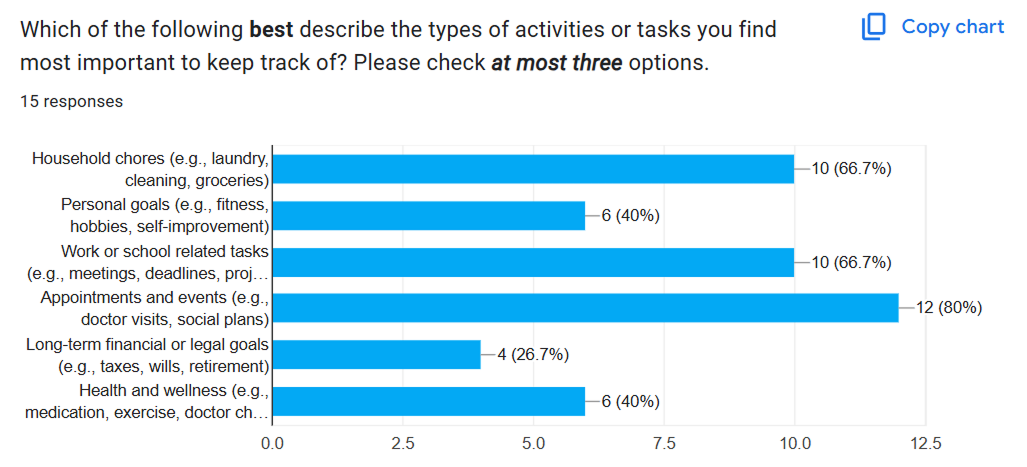
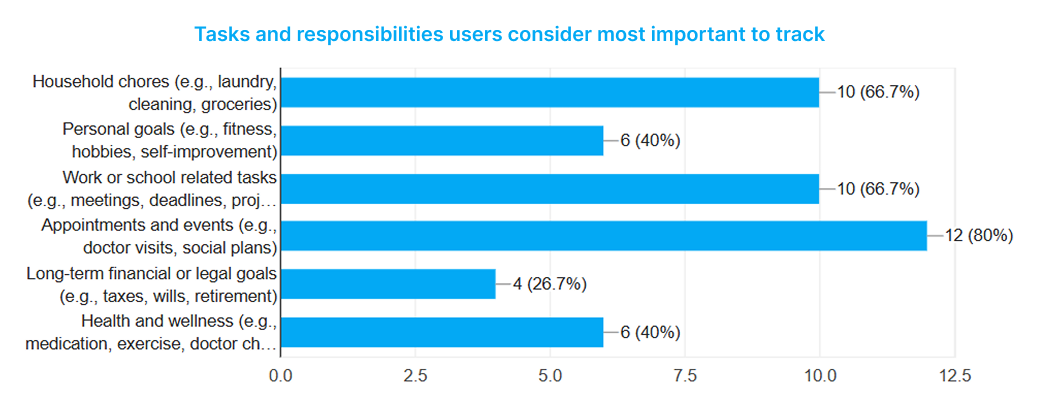
Put together intro and started work on research section

diff --git a/src/app/lifeManagementApp/LifeManagementAppContainer.js b/src/app/lifeManagementApp/LifeManagementAppContainer.js
@@ -1,6 +1,6 @@
 "use client"; 
 import React, {  } from 'react';
-import { Box, Grid, Paper, Typography } from '@mui/material';
+import { Box, Grid, Paper, Typography, List, ListItem } from '@mui/material';
 import * as globalStyles from '../styles/globalStyleConsts';
 import Header from '../Header';
 import ToDoListImage from '../../../public/Next_Up_Project.png';
@@ -15,7 +15,14 @@ const LifeManagementAppContainer = () => {
   return (
     <div>
       <Header/>
-      <Box sx={{ p: 5 }}>
+      <Box
+        sx={{
+          maxWidth: '80%',
+          margin: '0 auto',
+          padding: 5,
+          mt: 5
+        }}
+      >
         <Box
             container
             sx={{
@@ -25,7 +32,7 @@ const LifeManagementAppContainer = () => {
             }}
           >
           <Grid container justifyContent="center" justifyItems="center">
-              <Grid item xs={4} sx={{ marginRight: 8 }}>
+              <Grid item xs={4} sx={{ marginRight: 8, mt: 10 }}>
                 <Box sx={globalStyles.graphic}>
                   <Image
                       src={ToDoListImage}
@@ -35,53 +42,250 @@ const LifeManagementAppContainer = () => {
                 </Box>
               </Grid>
               <Grid item xs={6} sx={{ marginTop: 6}}>
-                  <Typography variant='h1' sx={globalStyles.heading1}>Problem</Typography>
+                  <Typography variant='h1' sx={globalStyles.heading1}>A life full of lists, but no roadmap</Typography>
                   <Typography variant='h2' sx={globalStyles.heading2}>
-                    A Life Management Application
+                    Project Overview
                   </Typography>
                   <Typography variant='body1' sx={globalStyles.paragraph}>
-                      <b>Problem to Solve:</b> {" "}
-                      As adults, we have ever-growing to-do lists comprised of tasks spanning from "do the laundry” to “schedule dentist appointment” to “write a will.” Our goals are split across various lists, notebooks, calendars, and apps.
-                      <br/><br/>
-                      My goal is to understand how people feel about the way they manage their goals and productivity. My mission if to design a way to make it easier to stay organized, manage deadlines, and track goals and milestones.
-                      <br/><br/>
-                      <b>More to come!</b>
+                      As adults, our responsibilities span a wide spectrum from everyday tasks like “do the laundry” to long-term priorities like “write a will.” Our to-dos, goals, and milestones are often fragmented across notebooks, sticky notes, apps, and calendar events. 
+                      <br/><br/>I wanted to create something more unified: a tool not just for daily productivity, but for managing life as a whole. My initial mission was to design a life management app that makes it easier to stay organized, manage deadlines, and track progress toward personal goals and milestones.
+                      <br/><br/>But through user research, a clearer theme began to emerge: many people, especially those with ADHD, anxiety, or executive dysfunction, struggled not because they lacked goals, but because they lacked systems that supported memory, focus, and follow-through. That insight shifted the direction of the project. What emerged was a flexible system that motivates daily productivity, memory support, and long-term goal tracking and record-keeping.
                   </Typography>
               </Grid>
           </Grid> 
         </Box>
-        <Box>
+        <Box
+          sx={{
+            margin: '0 auto',
+            textAlign: 'left',
+            mt: 10,
+          }}
+        >
           <Typography sx={globalStyles.heading1}>
-            Research
+            The Disconnect: Why Existing Tools<br/> are Falling Short
           </Typography>
-          <Box sx={globalStyles.graphic}>
+          <Typography variant="h2" sx={{ ...globalStyles.heading2, mt: 2 }}>
+            Research & Revelations
+          </Typography>
+          <Typography variant="h3" sx={{ ...globalStyles.heading3 }}>Research Methods</Typography>
+          <Typography variant="h3" sx={{ ...globalStyles.heading4, color: "blue" }}>1) Survey (Google Forms, 15 respondents):</Typography>
+          <Typography sx={{ ...globalStyles.paragraph }}><b>Purpose:</b> Included multiple-choice and open-ended questions to capture both quantitative trends and personal context around task management, tools used, frustrations, and motivation challenges. Specifically the questions I asked were focused on answering the following questions:</Typography>
+          <List sx={{ listStyleType: 'disc', marginLeft: 10 }}>
+              <ListItem sx={{ display: 'list-item' }}>
+                <Typography sx={{ ...globalStyles.paragraph, mt: 0, mb: 0 }}>
+                    How do people currently organize their daily to-do lists, long-term goals, and personal achievements or milestones?
+                </Typography>
+              </ListItem>
+              <ListItem sx={{ display: 'list-item' }}>
+                <Typography sx={{ ...globalStyles.paragraph, mt: 0, mb: 0 }}>
+                    Which types of tasks, activities, or responsibilities do people consider most important to track?
+                </Typography>
+              </ListItem>
+              <ListItem sx={{ display: 'list-item' }}>
+                <Typography sx={{ ...globalStyles.paragraph, mt: 0, mb: 0 }}>
+                    What tools or apps are people currently using to manage their tasks and goals, and what do they like about them?
+                </Typography>
+              </ListItem>
+              <ListItem sx={{ display: 'list-item' }}>
+                <Typography sx={{ ...globalStyles.paragraph, mt: 0, mb: 0 }}>
+                    What frustrations or limitations do users experience with existing productivity tools?
+                </Typography>
+              </ListItem>
+              <ListItem sx={{ display: 'list-item' }}>
+                <Typography sx={{ ...globalStyles.paragraph, mt: 0, mb: 0 }}>
+                    What factors most commonly derail users from staying productive or keeping up with their to-do lists?
+                </Typography>
+              </ListItem>
+          </List>
+          <Box sx={{ ...globalStyles.graphic, my: 4 }}>
             <Image
-                src={QuantitativeAnswers1}
-                width="100%"
-                alt="An image of the UX process with the Analysis step highlighted"
+              src={QuantitativeAnswers4}
+              style={{ width: '100%', height: 'auto' }}
+              alt={`Quantitative UX insight chart`}
             />
           </Box>
-          <Box sx={globalStyles.graphic}>
+          <Typography sx={{ ...globalStyles.paragraph, mt: 5 }}><b>Results:</b>  Included multiple-choice and open-ended questions to capture both quantitative trends and personal context around task management, tools used, frustrations, and motivation challenges. Specifically the questions I asked were focused on answering the following questions:</Typography>
+          <List sx={{ listStyleType: 'disc', marginLeft: 10 }}>
+              <ListItem sx={{ display: 'list-item' }}>
+                <Typography sx={{ ...globalStyles.paragraph, mt: 0, mb: 0 }}>
+                    How do people currently organize their daily to-do lists, long-term goals, and personal achievements or milestones?
+                </Typography>
+              </ListItem>
+              <ListItem sx={{ display: 'list-item' }}>
+                <Typography sx={{ ...globalStyles.paragraph, mt: 0, mb: 0 }}>
+                    Which types of tasks, activities, or responsibilities do people consider most important to track?
+                </Typography>
+              </ListItem>
+              <ListItem sx={{ display: 'list-item' }}>
+                <Typography sx={{ ...globalStyles.paragraph, mt: 0, mb: 0 }}>
+                    What tools or apps are people currently using to manage their tasks and goals, and what do they like about them?
+                </Typography>
+              </ListItem>
+              <ListItem sx={{ display: 'list-item' }}>
+                <Typography sx={{ ...globalStyles.paragraph, mt: 0, mb: 0 }}>
+                    What frustrations or limitations do users experience with existing productivity tools?
+                </Typography>
+              </ListItem>
+              <ListItem sx={{ display: 'list-item' }}>
+                <Typography sx={{ ...globalStyles.paragraph, mt: 0, mb: 0 }}>
+                    What factors most commonly derail users from staying productive or keeping up with their to-do lists?
+                </Typography>
+              </ListItem>
+          </List>
+           <Box sx={{ ...globalStyles.graphic, my: 4 }}>
             <Image
-                src={QuantitativeAnswers2}
-                width="100%"
-                alt="An image of the UX process with the Analysis step highlighted"
+              src={QuantitativeAnswers4}
+              style={{ width: '100%', height: 'auto' }}
+              alt={`Quantitative UX insight chart`}
             />
           </Box>
-          <Box sx={globalStyles.graphic}>
+          <Typography variant="h3" sx={{ ...globalStyles.heading4, color: "blue", mt: 10 }}>2) Short Interviews (3 participants):</Typography>
+            <b>Purpose:</b> To explore how people record, recall, and locate important life information — especially for events spaced far apart — I conducted short, semi-structured interviews with three participants with a predefined set of questions, followed with questions I came up with on the spot to find out more details about each of the participants initial answers. Each was asked a series of prompts designed to assess their memory, storage methods, and retrieval habits related to real-life milestone events.
+            <br/><br/>Rather than asking participants to directly answer personal questions, I asked them to reflect on whether they knew the answers, and how they would go about finding them if not. Topics included:
+            <List sx={{ listStyleType: 'disc', marginLeft: 10 }}>
+              <ListItem sx={{ display: 'list-item' }}>
+                <Typography sx={{ ...globalStyles.paragraph, mt: 0, mb: 0 }}>
+                    Their last surgery, major dental procedure, or doctor's appointment
+                </Typography>
+              </ListItem>
+              <ListItem sx={{ display: 'list-item' }}>
+                <Typography sx={{ ...globalStyles.paragraph, mt: 0, mb: 0 }}>
+                    Their last car or appliance maintenance
+                </Typography>
+              </ListItem>
+              <ListItem sx={{ display: 'list-item' }}>
+                <Typography sx={{ ...globalStyles.paragraph, mt: 0, mb: 0 }}>
+                    The date they last signed a lease or mortgage
+                </Typography>
+              </ListItem>
+              <ListItem sx={{ display: 'list-item' }}>
+                <Typography sx={{ ...globalStyles.paragraph, mt: 0, mb: 0 }}>
+                    Their pet's most recent vet visit and any treatments or prescriptions
+                </Typography>
+              </ListItem>
+            </List>
+          <Box sx={{ ...globalStyles.graphic, my: 4 }}>
             <Image
-                src={QuantitativeAnswers3}
-                width="100%"
-                alt="An image of the UX process with the Analysis step highlighted"
+              src={QuantitativeAnswers4}
+              style={{ width: '100%', height: 'auto' }}
+              alt={`Quantitative UX insight chart`}
             />
           </Box>
-            <Box sx={globalStyles.graphic}>
-              <Image
-                  src={QuantitativeAnswers4}
-                  width="100%"
-                  alt="An image of the UX process with the Analysis step highlighted"
-              />
-            </Box>
+          <Typography sx={{ ...globalStyles.paragraph, mt: 5 }}><b>Results:</b> 
+            To explore how people record, recall, and locate important life information — especially for events spaced far apart — I conducted short, semi-structured interviews with three participants. Each was asked a series of prompts designed to assess their memory, storage methods, and retrieval habits related to real-life milestone events.
+            <br/><br/>Rather than asking participants to directly answer personal questions, I asked them to reflect on whether they knew the answers, and how they would go about finding them if not. Topics included:
+
+          </Typography>
+          <List sx={{ listStyleType: 'disc', marginLeft: 10 }}>
+              <ListItem sx={{ display: 'list-item' }}>
+                <Typography sx={{ ...globalStyles.paragraph, mt: 0, mb: 0 }}>
+                    How do people currently organize their daily to-do lists, long-term goals, and personal achievements or milestones?
+                </Typography>
+              </ListItem>
+              <ListItem sx={{ display: 'list-item' }}>
+                <Typography sx={{ ...globalStyles.paragraph, mt: 0, mb: 0 }}>
+                    Which types of tasks, activities, or responsibilities do people consider most important to track?
+                </Typography>
+              </ListItem>
+              <ListItem sx={{ display: 'list-item' }}>
+                <Typography sx={{ ...globalStyles.paragraph, mt: 0, mb: 0 }}>
+                    What tools or apps are people currently using to manage their tasks and goals, and what do they like about them?
+                </Typography>
+              </ListItem>
+              <ListItem sx={{ display: 'list-item' }}>
+                <Typography sx={{ ...globalStyles.paragraph, mt: 0, mb: 0 }}>
+                    What frustrations or limitations do users experience with existing productivity tools?
+                </Typography>
+              </ListItem>
+              <ListItem sx={{ display: 'list-item' }}>
+                <Typography sx={{ ...globalStyles.paragraph, mt: 0, mb: 0 }}>
+                    What factors most commonly derail users from staying productive or keeping up with their to-do lists?
+                </Typography>
+              </ListItem>
+          </List>
+           <Box sx={{ ...globalStyles.graphic, my: 4 }}>
+            <Image
+              src={QuantitativeAnswers4}
+              style={{ width: '100%', height: 'auto' }}
+              alt={`Quantitative UX insight chart`}
+            />
+          </Box>
+          <Typography variant="h3" sx={{ ...globalStyles.heading4, color: "blue", mt: 10 }}>3) Competitor/Benchmark Research</Typography>
+          <Typography sx={{ ...globalStyles.paragraph }}><b>Purpose:</b> To understand the landscape of existing tools—and identify gaps my life‑management app could fill—I analyzed twelve popular apps across six categories. I selected these apps based on recommendations in online productivity forums, mentions from my survey respondents, and prominent features highlighted in app store reviews. The categories were:</Typography>
+             <List sx={{ listStyleType: 'disc', marginLeft: 10 }}>
+              <ListItem sx={{ display: 'list-item' }}>
+                <Typography sx={{ ...globalStyles.paragraph, mt: 0, mb: 0 }}>
+                    Calendar (Google Calendar)
+                </Typography>
+              </ListItem>
+              <ListItem sx={{ display: 'list-item' }}>
+                <Typography sx={{ ...globalStyles.paragraph, mt: 0, mb: 0 }}>
+                    Spreadsheets (Excel, Google Sheets)
+                </Typography>
+              </ListItem>
+              <ListItem sx={{ display: 'list-item' }}>
+                <Typography sx={{ ...globalStyles.paragraph, mt: 0, mb: 0 }}>
+                    Notes (Evernote, Apple Notes, OneNote, Notion)
+                </Typography>
+              </ListItem>
+              <ListItem sx={{ display: 'list-item' }}>
+                <Typography sx={{ ...globalStyles.paragraph, mt: 0, mb: 0 }}>
+                    To‑Do Lists (Todoist)
+                </Typography>
+              </ListItem>
+              <ListItem sx={{ display: 'list-item' }}>
+                <Typography sx={{ ...globalStyles.paragraph, mt: 0, mb: 0 }}>
+                    Kanban (Trello, Asana)
+                </Typography>
+              </ListItem>
+              <ListItem sx={{ display: 'list-item' }}>
+                <Typography sx={{ ...globalStyles.paragraph, mt: 0, mb: 0 }}>
+                    Gamified Habit Trackers (Habitica, Finch)
+                </Typography>
+              </ListItem>
+          </List>
+          <Box sx={{ ...globalStyles.graphic, my: 4 }}>
+            <Image
+              src={QuantitativeAnswers4}
+              style={{ width: '100%', height: 'auto' }}
+              alt={`Quantitative UX insight chart`}
+            />
+          </Box>
+          <Typography sx={{ ...globalStyles.paragraph, mt: 5 }}><b>Results:</b></Typography>
+          <List sx={{ listStyleType: 'disc', marginLeft: 10 }}>
+              <ListItem sx={{ display: 'list-item' }}>
+                <Typography sx={{ ...globalStyles.paragraph, mt: 0, mb: 0 }}>
+                    How do people currently organize their daily to-do lists, long-term goals, and personal achievements or milestones?
+                </Typography>
+              </ListItem>
+              <ListItem sx={{ display: 'list-item' }}>
+                <Typography sx={{ ...globalStyles.paragraph, mt: 0, mb: 0 }}>
+                    Which types of tasks, activities, or responsibilities do people consider most important to track?
+                </Typography>
+              </ListItem>
+              <ListItem sx={{ display: 'list-item' }}>
+                <Typography sx={{ ...globalStyles.paragraph, mt: 0, mb: 0 }}>
+                    What tools or apps are people currently using to manage their tasks and goals, and what do they like about them?
+                </Typography>
+              </ListItem>
+              <ListItem sx={{ display: 'list-item' }}>
+                <Typography sx={{ ...globalStyles.paragraph, mt: 0, mb: 0 }}>
+                    What frustrations or limitations do users experience with existing productivity tools?
+                </Typography>
+              </ListItem>
+              <ListItem sx={{ display: 'list-item' }}>
+                <Typography sx={{ ...globalStyles.paragraph, mt: 0, mb: 0 }}>
+                    What factors most commonly derail users from staying productive or keeping up with their to-do lists?
+                </Typography>
+              </ListItem>
+          </List>
+           <Box sx={{ ...globalStyles.graphic, my: 4 }}>
+            <Image
+              src={QuantitativeAnswers4}
+              style={{ width: '100%', height: 'auto' }}
+              alt={`Quantitative UX insight chart`}
+            />
+          </Box>
         </Box>
         <Box>
           <Typography sx={globalStyles.heading1}>
